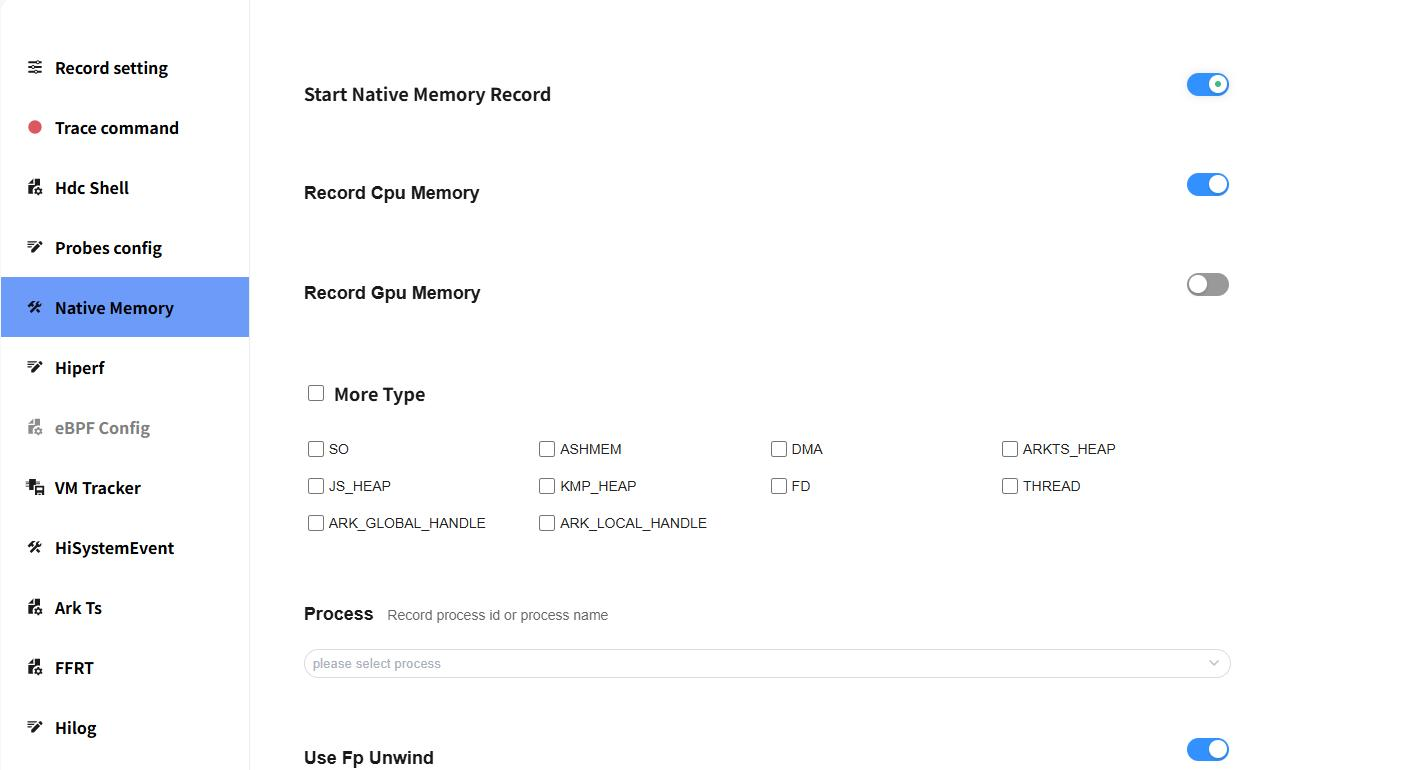
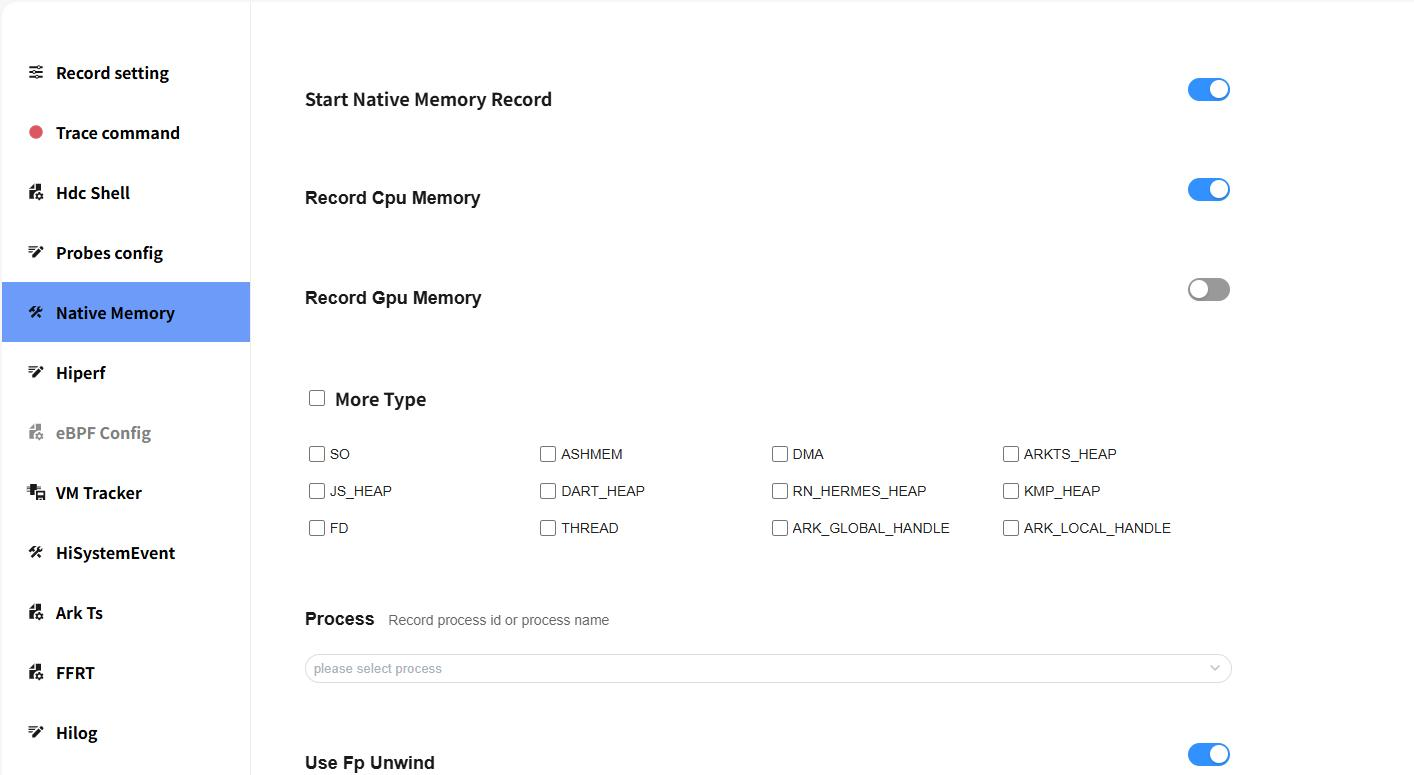
feat:内存帮助文档更新

diff --git a/smartperf_host/ide/src/doc/quickstart_native_memory.html b/smartperf_host/ide/src/doc/quickstart_native_memory.html
@@ -856,7 +856,7 @@
       <ul class="fontColor">
         <li>Record Cpu Memory：抓取cpu内存。</li>
         <li>Record Gpu Memory：抓取gpu内存。</li>
-        <li>More Type：抓取更多内存类型(SO、ASHMEM、DMA、ARKTS_HEAP、JS_HEAP、KMP_HEAP、FD、THREAD、ARK_GLOBAL_HANDLE、ARK_LOCAL_HANDLE)。</li>
+        <li>More Type：抓取更多类型(SO、ASHMEM、DMA、ARKTS_HEAP、JS_HEAP、DART_HEAP、RN_HERMES_HEAP、KMP_HEAP、FD、THREAD、ARK_GLOBAL_HANDLE、ARK_LOCAL_HANDLE)。</li>
         <li>Process：设置抓取的进程 ID 或者进程名，此处以输入 com.ohos.mms 进程名为例。</li>
         <li>Use Fp Unwind：是否Fp 回栈。</li>
         <li>Use Record Statistics：统计数据上报时间间隔设置。</li>
@@ -940,11 +940,11 @@
           </pre>
         </li>
         <li>
-          <pre class="smartperf-text fontColor light">All Heap&amp;Anonymous VM：malloc、globalhandle、localhandle、arktsHeap、jsHeap、kmpHeap分配和mmap、dma、so、ashmem分配的总量。
+          <pre class="smartperf-text fontColor light">All Heap&amp;Anonymous VM：malloc、globalhandle、localhandle、arktsHeap、jsHeap、dartHeap、rnHeap、kmpHeap分配和mmap、dma、so、ashmem分配的总量。
           </pre>
         </li>
         <li>
-          <pre class="smartperf-text fontColor light">All Heap：malloc、globalhandle、localhandle、arktsHeap、jsHeap、kmpHeap分配的内存。
+          <pre class="smartperf-text fontColor light">All Heap：malloc、globalhandle、localhandle、arktsHeap、jsHeap、dartHeap、rnHeap、kmpHeap分配的内存。
           </pre>
         </li>
         <li>

diff --git a/smartperf_host/ide/src/doc/quickstart_fd.html b/smartperf_host/ide/src/doc/quickstart_fd.html
@@ -796,7 +796,7 @@
         配置参数说明：
       </p>
       <ul class="fontColor">
-        <li>More Type：抓取更多内存类型(SO、ASHMEM、DMA、ARKTS_HEAP、JS_HEAP、KMP_HEAP、FD、THREAD、ARK_GLOBAL_HANDLE、ARK_LOCAL_HANDLE)。</li>
+        <li>More Type：抓取更多类型(SO、ASHMEM、DMA、ARKTS_HEAP、JS_HEAP、DART_HEAP、RN_HERMES_HEAP、KMP_HEAP、FD、THREAD、ARK_GLOBAL_HANDLE、ARK_LOCAL_HANDLE)。</li>
       </ul>
       <p class="fontColor">fd & thread抓取：<br>
       </p>
